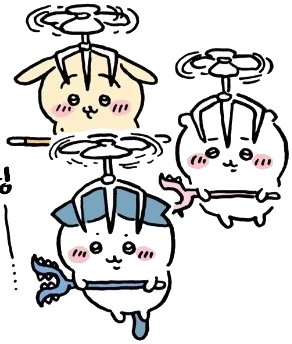
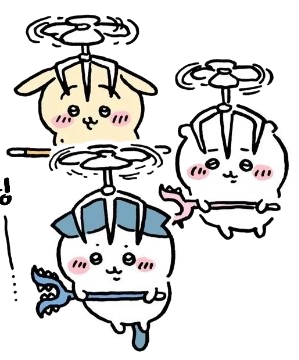
Preserve white character fills in cutouts

Changed region(s): [[0.0, 0.0, 1.0, 0.9884], [0.0, 0.4651, 0.0616, 0.6977], [0.0308, 0.6977, 0.0616, 0.843]]

diff --git a/src/ui/GameUI.js b/src/ui/GameUI.js
@@ -38,7 +38,7 @@ export class GameUI {
     } else if (state === GAME_STATE.WON) {
       this.title.textContent = '토벌 성공!';
       this.message.innerHTML = `체력 999,999의 세이렌을 물리쳤어요!<br>최종 공격력 <b>${stats.power.toLocaleString()} ×${stats.multiplier}</b>`;
-      this.image.src = './assets/game/siren-win.png';
+      this.image.src = './assets/game/siren-win-cutout.png';
       this.image.alt = '세이렌 토벌 성공 기념 이미지';
       this.image.hidden = false;
       this.startButton.textContent = '다시 토벌하기';

diff --git a/assets/game/README.md b/assets/game/README.md
@@ -2,10 +2,10 @@
 
 The provided reference images selected for in-game use are stored here:
 
-- `flight.png`: source for the opening flight sequence; `flight-cutout.png` is the transparent in-game version
+- `flight.png`: source for the opening flight sequence; `flight-cutout.png` removes only the outer white backdrop and preserves the characters' white fills
 - `ocean.png`: the sea backdrop as the Siren rises
 - `siren-cutout.png`: transparent Siren encounter image; `siren.png` remains the failure screen source
-- `siren-win.png`: victory screen
+- `siren-win.png`: victory image source; `siren-win-cutout.png` removes its outer white backdrop for the victory screen
 - `weapon-bowl.png`: source for the bowl pickup; `weapon-bowl-cutout.png` removes its white backdrop
 - `weapon-fork-pink.svg`, `weapon-fork-blue.svg`: transparent pink and blue fork illustrations based on the supplied references
 - `weapon-stick-cutout.png`: background-removed cutout based on the supplied yellow stick reference
